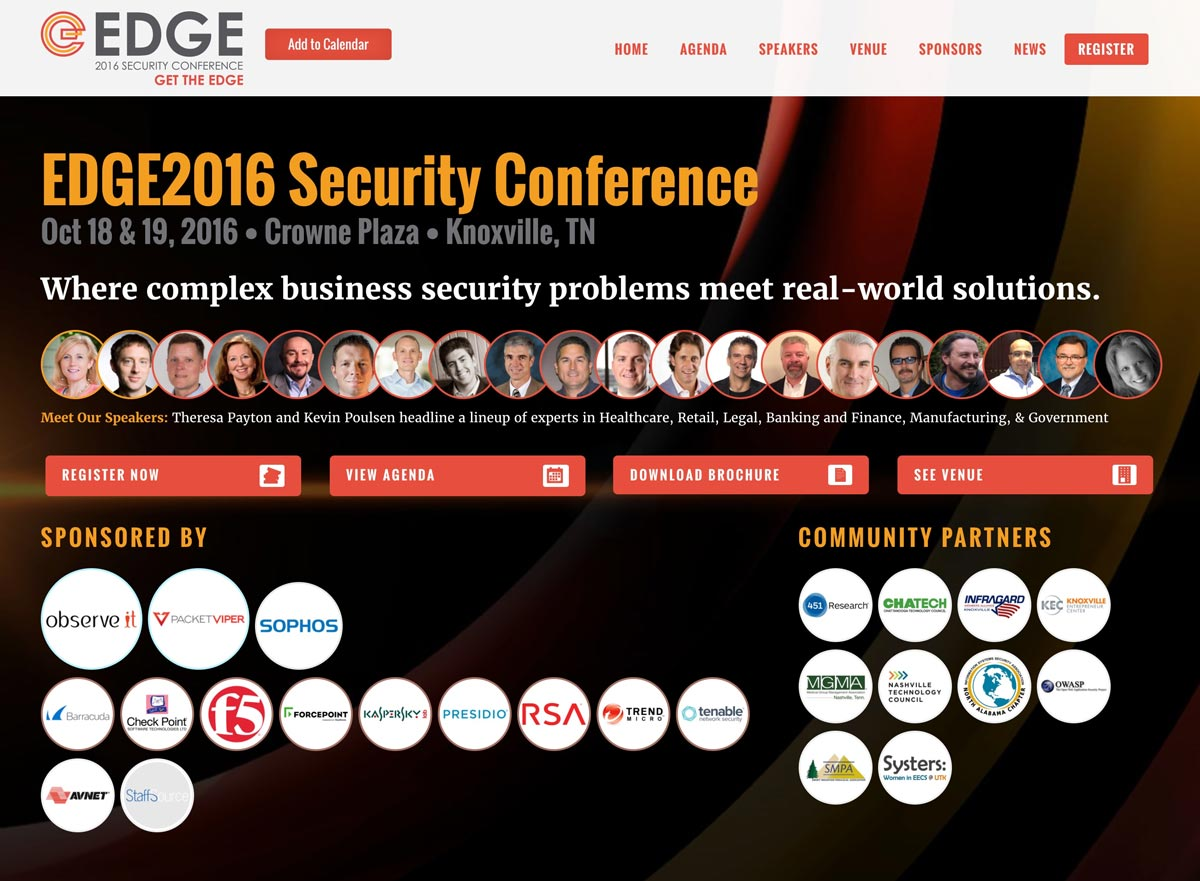
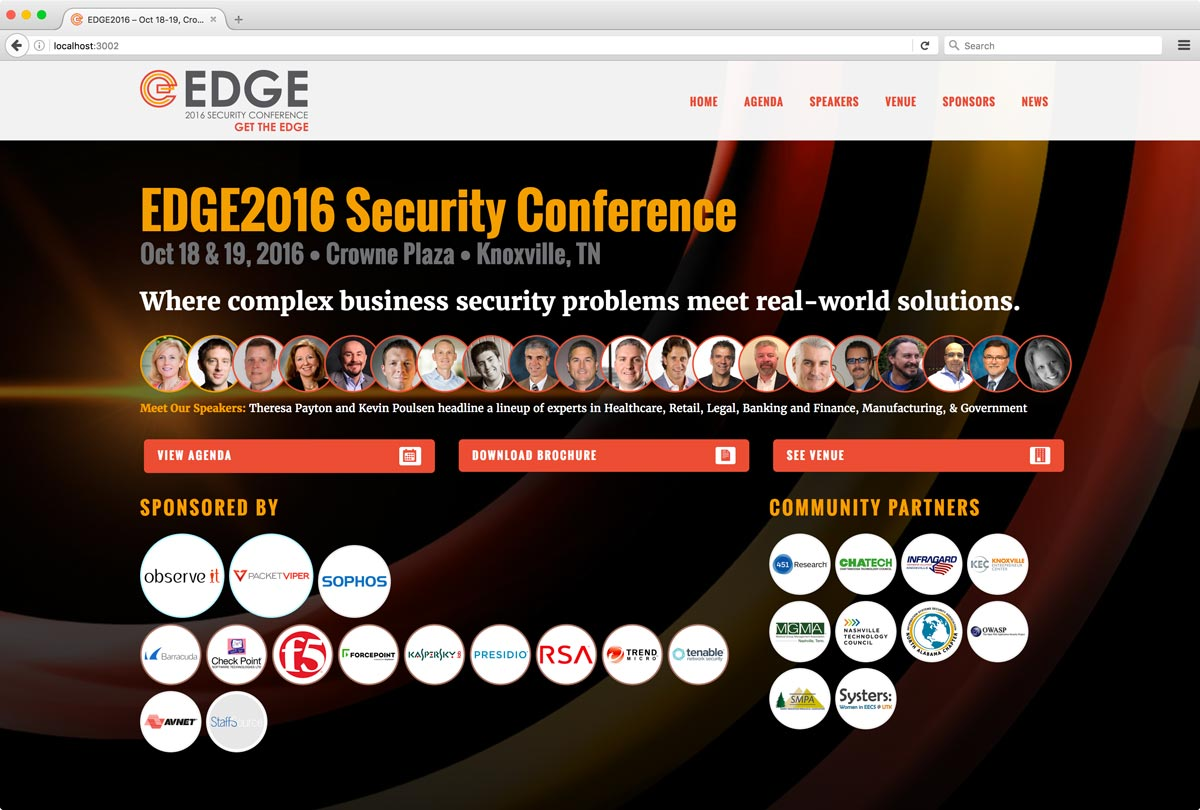
Adding link back to EDGE2016 archive

diff --git a/lib/html/front-page-1.html b/lib/html/front-page-1.html
@@ -1,21 +1,22 @@
 <div class="clearfix">
-	<div class="two-thirdsAAA first">
-		<h1 class="">EDGE2017 Security Conference<br /><span>Oct 17 &amp; 18, 2017 &bull; Knoxville Convention Center &bull; Knoxville, TN</span></h1>
-		<p class="lead">Early registration now through Mar 31, 2017.</p>
-		<a href="/edge2017" class="button">Register for EDGE2017</a> <a href="http://landing.swordshield.com/edge2017-updates" class="button">Sign Up for Updates</a>
-	</div>
-	<!--<div class="one-third">
-		<img src="{themedir}/images/edge2016-screenshot.jpg" /><br />
-		<div style="text-align: center">
-			<a href="https://edge2016.edgesecurityconference.com" class="button small" style="background-color: #3f3f3f; border-color: #3f3f3f;">Find out what you missed</a>
-		</div>
-	</div>-->
+	<h1 class="">EDGE2017 Security Conference<br /><span>Oct 17 &amp; 18, 2017 &bull; Knoxville Convention Center &bull; Knoxville, TN</span></h1>
+	<p class="lead">Early registration now through Mar 31, 2017.</p>
+	<a href="/edge2017" class="button">Register for EDGE2017</a> <a href="http://landing.swordshield.com/edge2017-updates" class="button" target="_blank">Sign Up for Updates</a>
 </div>
-<hr>
+<hr style="margin-top: 0;">
 <div class="clearfix">
+	<div class="two-thirds first">
 		<h3>EDGE2016 In The News</h3>
 		<ul>
 			<li><a style="color: #e94f3d" href="http://www.knoxnews.com/story/money/business/2016/10/18/cybercrime-greatest-threat-our-national-security/92356898/">Cybercrime is 'greatest threat to our national security'</a><br />Knoxville News Sentinel, Oct 18, 2016</li>
 			<li><a style="color: #e94f3d" href="http://www.knoxnews.com/videos/money/business/2016/10/18/92363056/">Former White House CIO Theresa Payton talks about cybersecurity</a><br />Knoxville News Sentinel Video, Oct 18, 2016</li>
 		</ul>
+	</div>
+	<div class="one-third">
+		<h3>EDGE2016 Website</h3>
+		<img src="{themedir}/images/edge2016-screenshot.jpg" /><br />
+		<div style="text-align: center">
+			<a href="https://edge2016.edgesecurityconference.com" class="button small" style="display: block;" target="_blank">Find out what you missed</a>
+		</div>
+	</div>
 </div>
